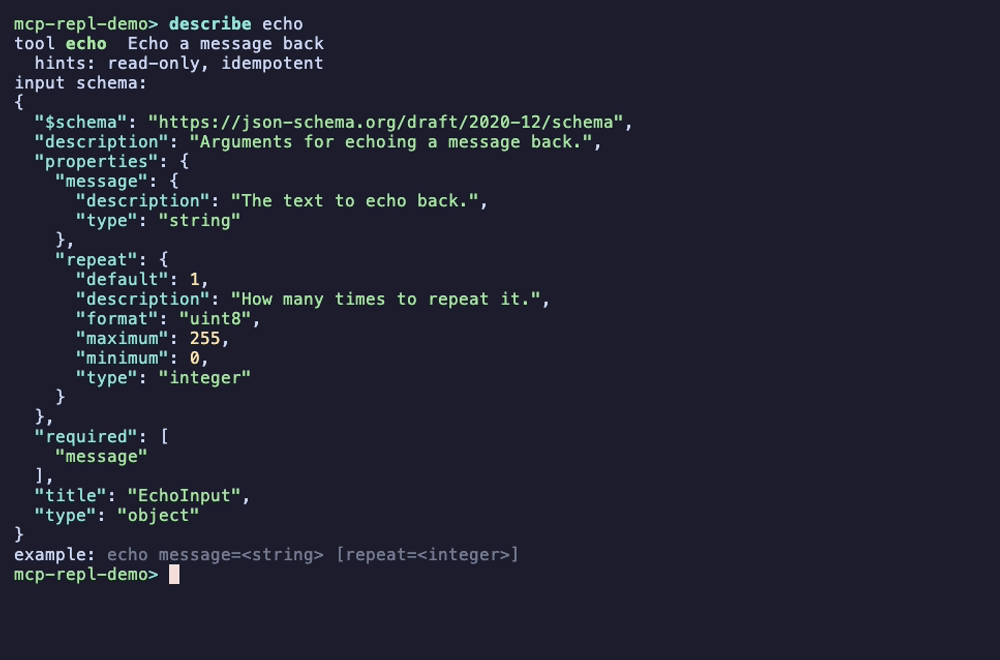
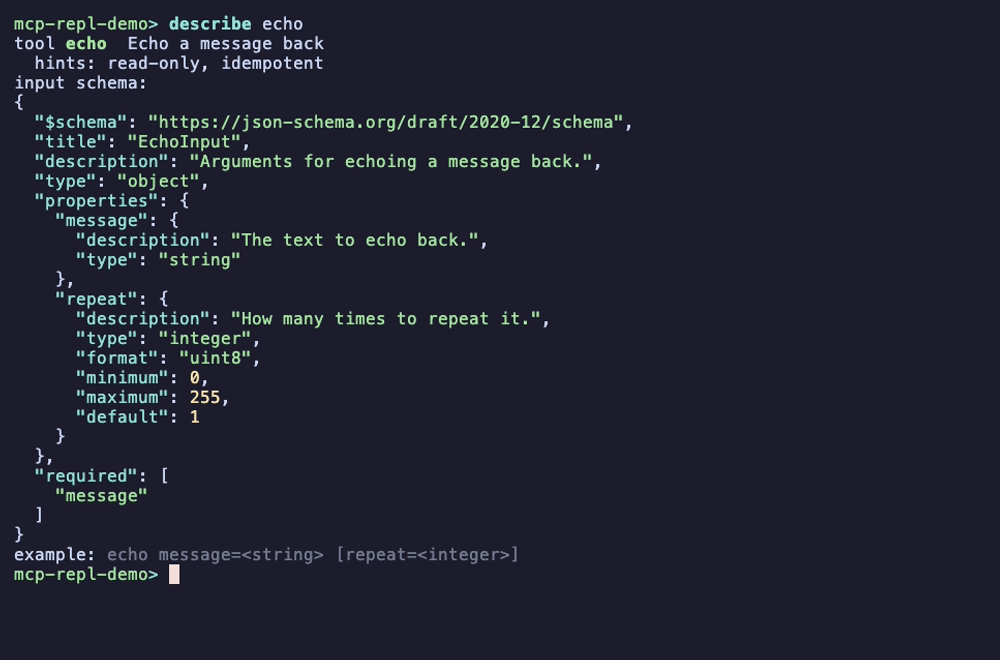
docs: regenerate the recordings and fix the tapes that silently did not (#80)
Three of the four images were stale. The demo gained `fail` and
`summarize` today, so the hero opened on "6 tools" and a list missing
both, and the scripting still printed a six-name array. `describe` was
stale in a way I had not predicted: schema keys now print in declaration
order rather than alphabetically, which arrived with tower-mcp 0.20's
`preserve_order`, so the screenshot showed a shape the tool no longer
produces.

Two vhs behaviours made this worse, both silent, both now written down in
`docs/tapes/README.md`:

`Screenshot` on the last line of a tape writes nothing and still exits 0.
The old image stays on disk, so a regeneration looks like it worked. That
is why `scripting.png` stayed stale through a run that reported success.
Every still tape now ends with a `Sleep`.

A tape that shells out by name runs whatever `PATH` resolves, and vhs
starts a login shell that re-reads the profile. A `cargo install`ed copy
in `~/.cargo/bin`, here from July, wins over the build under test.

Verified by extracting frames rather than trusting the exit code: the
completion menu opens, the enum conversion converts celsius to
fahrenheit rather than to itself, progress arrives in order, and the
background task reports on its own.

Also checked every runnable claim in the README, including the public
crates.io server it offers, which answers again after being down earlier
today.

Changed region(s): [[0.031, 0.1818, 0.589, 0.7879]]

diff --git a/docs/tapes/README.md b/docs/tapes/README.md
@@ -28,7 +28,23 @@ tape means to type out.
 PATH="$PWD/target/release:$PATH" vhs docs/tapes/scripting.tape
 ```
 
-Two details worth knowing before editing a tape. `Output` ending in `.png`
-makes vhs write a directory of frames, so the still tapes send `Output` to a
-throwaway GIF and keep only the `Screenshot`. And `Type` cannot parse escaped
-quotes, so a line containing double quotes has to be wrapped in single ones.
+Three details worth knowing before editing a tape, all of which fail
+silently rather than loudly.
+
+`Output` ending in `.png` makes vhs write a *directory* of frames, so the
+still tapes send `Output` to a throwaway GIF and keep only the `Screenshot`.
+
+`Screenshot` on the last line of a tape writes nothing, and vhs still exits
+0. Every still tape therefore ends with a `Sleep`, so there is a frame after
+the one being captured. Without it the old image stays on disk and the run
+looks like it worked, which is exactly how `scripting.png` went stale.
+
+`Type` cannot parse escaped quotes, so a line containing double quotes has to
+be wrapped in single ones.
+
+A tape that shells out to `mcp-repl` by name runs whatever `PATH` resolves,
+and vhs starts a login shell that re-reads your profile. An older
+`cargo install`ed copy in `~/.cargo/bin` will win, and the recording will
+show a version of the tool that is not the one you built. Check with
+`bash -lc 'command -v mcp-repl'` if a recording shows something you do not
+recognise.

diff --git a/README.md b/README.md
@@ -67,7 +67,9 @@ and run.
 (`completion/complete`), elicitation, and sampling all work here, and
 SEP-2663 tasks run with a shell-style trailing `&`. When a server asks the
 operator a question, the REPL says which server is asking and flags fields
-whose names look like credentials before anything is typed.
+whose names look like credentials before anything is typed. `--demo` has a
+tool for each: `sign_in` asks you a question, `summarize` asks your client's
+model for a completion.
 
 ![the demo server eliciting a username, an environment, and a boolean, each labelled with its declared type](https://raw.githubusercontent.com/joshrotenberg/mcp-repl/main/docs/media/elicitation.png)
 
